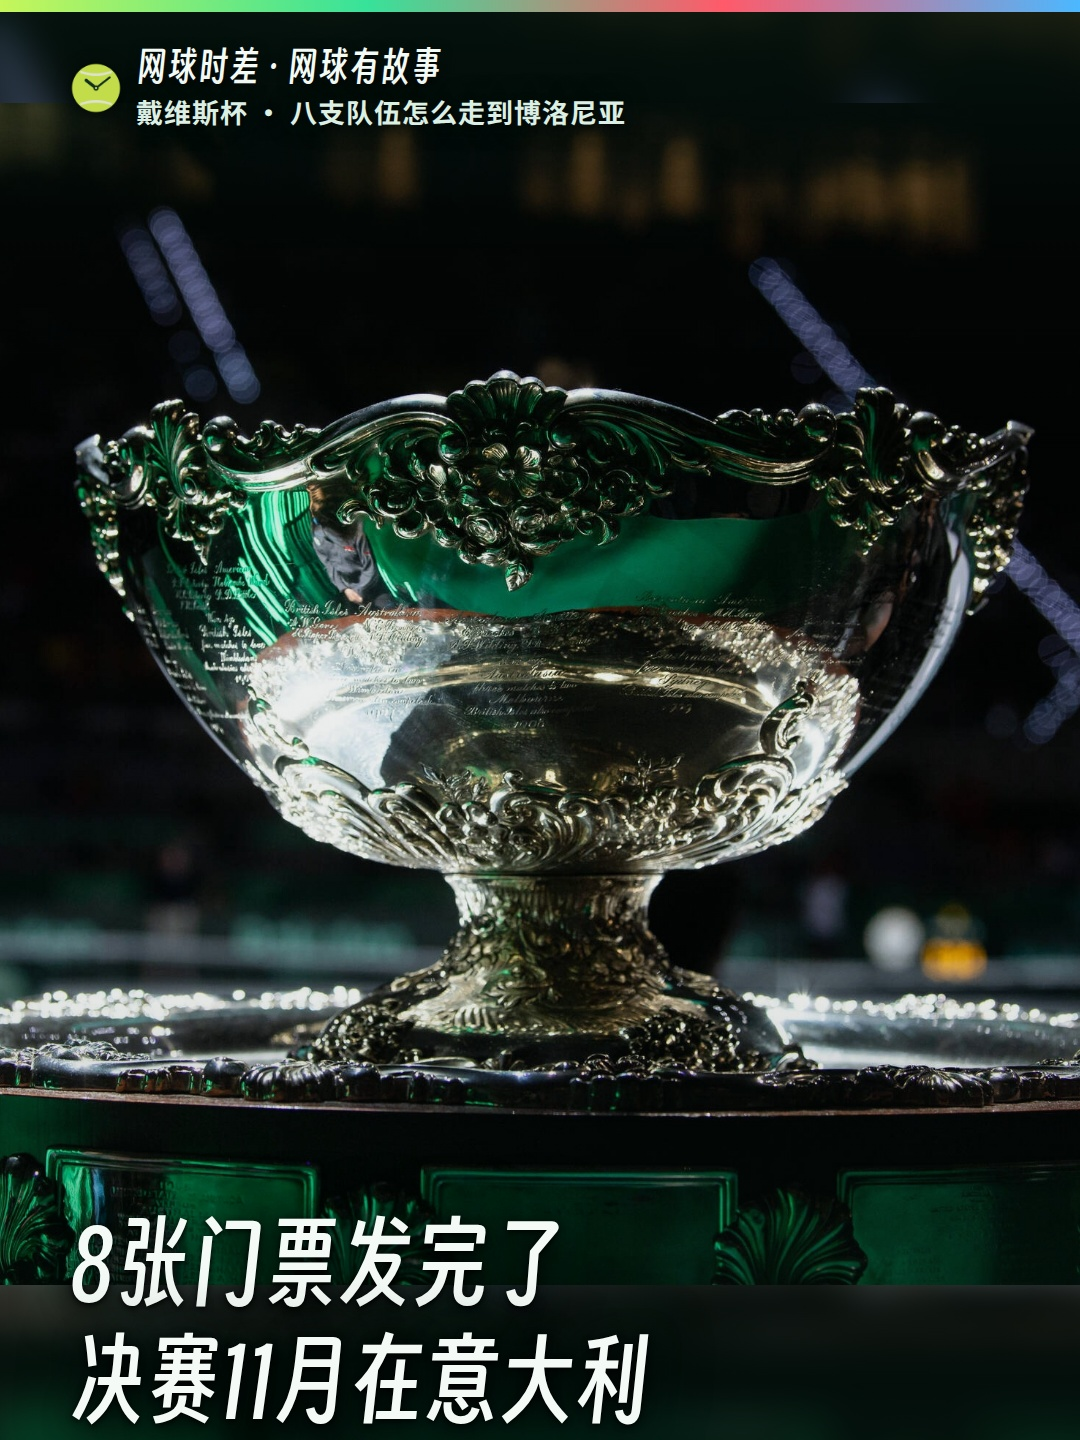
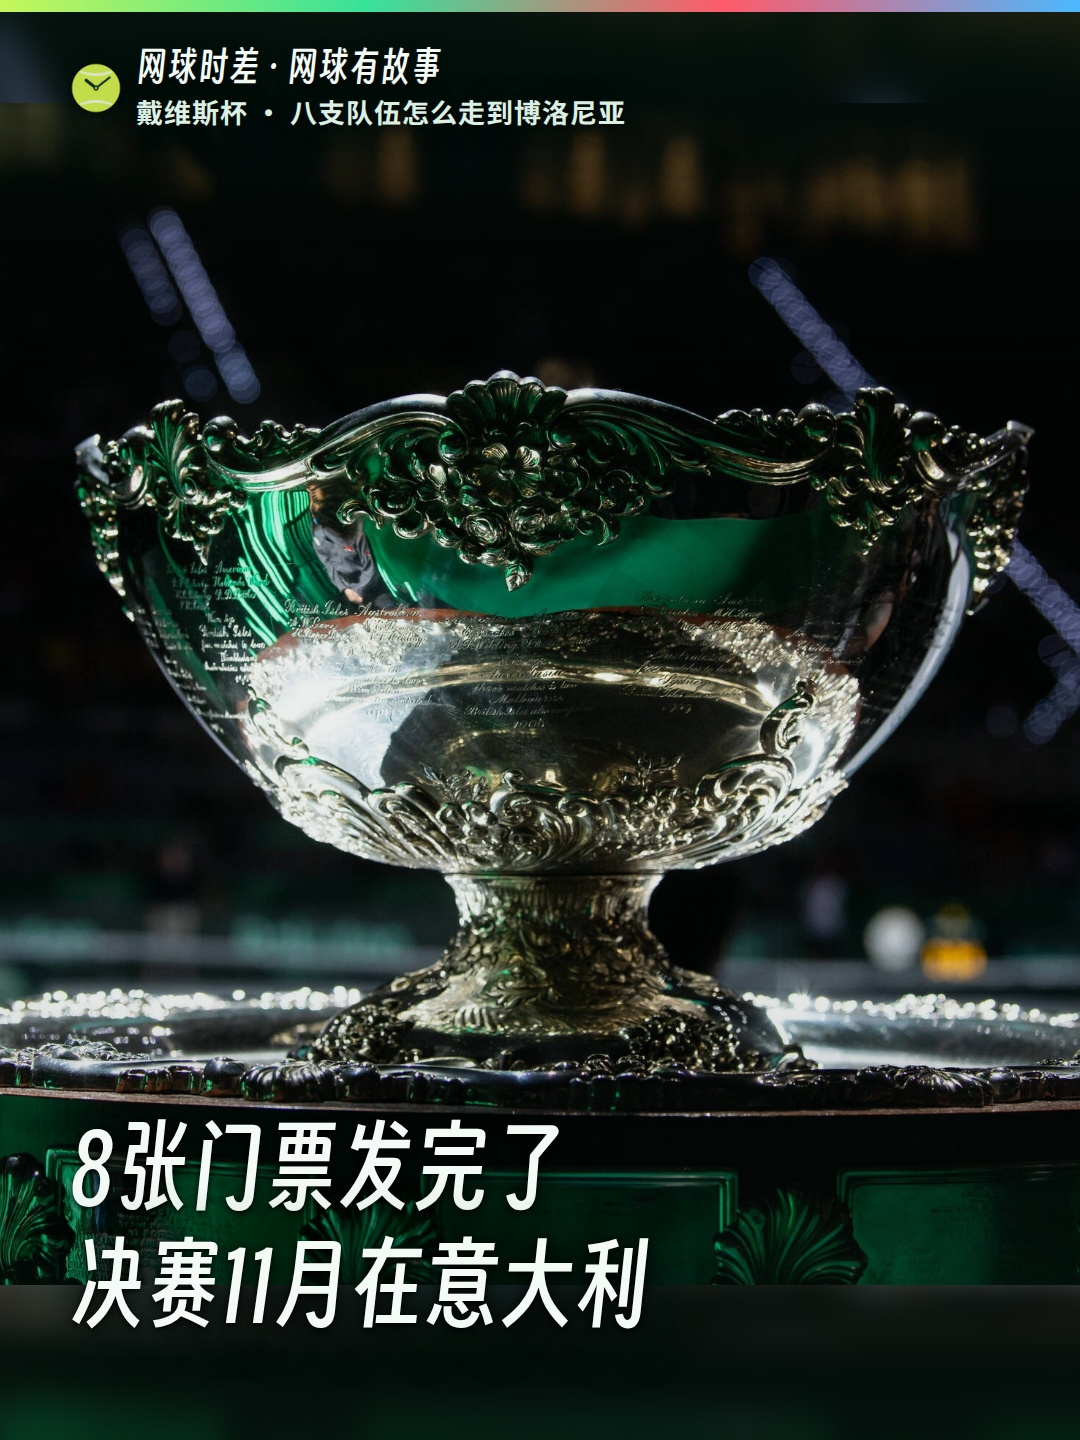
封面钩子上移 ＋ 推送正文修两处 ＋ 重渲重发 (#975)
* 信箱式封面的钩子不再贴着画布底边——往下那一头也留一口气

账号所有者：「封面钩子文案是不是要往上移一点更好一点」。是的，而根子
不在那张奖杯照上。

`fit:"width"` ＋ 没有比分板的 solo 封面走 `storycopy_top_for()`，算式是
「照片下边缘 + SOLO_PAD_HOOK_GAP」两头夹住。照片一高，`want` 根本够不着，
真正在起作用的是往下那一头的钳位——原来写的是 `1440 - hook_h`，两行钩子
的行盒正好贴着画布底边，一个像素的余地都不留。

量出来这不是个别现象：`davis-cup-road-to-bologna` 末行墨迹离画布底只有
17px，而全库 6 条 `fit:"width"` 的 solo 封面里 4 条顶在这个钳位上
（bjk-cup-story、davis-cup-china-first-world-group-1、
davis-cup-road-to-bologna、lina-cincinnati-2012）——照片一高就必然贴底，
换张照片一点用都没有。

改法：往下那一头也减掉 SOLO_PAD_HOOK_GAP。96 照旧是抄的不是拍的——上下
叠那一版（portrait_above）压到底部用的就是 `bottom:96px`，说的是同一件
事：文案块下边缘离画布底 96px。三处从此同一口气。

渲了 60/96/130 三版摆一起看（末行墨底离画布底 77/113/147px），取 96：
130 那版第一行的「8」骑到奖杯托盘那道亮边上（托盘墨止于 y=1082，那版
首行墨从 1086 起），往上让过头就开始压主体，正是这条规则要躲开的那件事。

定版的 `STORYCOPY_TOP = 790` 一个字没动，铺满那一档和赛场之上照旧走它；
改的只是信箱式那条 override 的下界。判据里原来钉旧钳位的那条断言跟着
一起改，另加一条钉「块的下边缘离画布底 ＝ 96」；反向验证过，把钳位换
回去红在自己那行（assert 1207 == ((1440 - 233) - 96)）。

已发的四条不为这个重渲。全量 3345 passed / 169 skipped。

Claude-Session: https://claude.ai/code/session_018HNYk2GrPhvhMGpGP9tyJx

* 推送正文修两处：西班牙 4-0 漏改了这一处，数字改成阿拉伯数字

① **事实**：`push.lead` 里写着「西班牙在客场圣地亚哥三比零」。9/20 那次
Spain 3-0 → 4-0 的改正落到了旁白、小红书正文、`_facts` 和 `_claims`，
**唯独漏了推送正文**——而那正是真发到微信的那段字。ITF 官方 tieCentre
`teams[].score` ＝ 0/4（R1/R2/R3/R5 COMPLETE、R4 Not Played），戴维斯杯
官方《QUALIFIERS 2ND ROUND RESULTS》制图写 `CHILE * 0-4 SPAIN`。

② **口径**：通篇汉字数字换成阿拉伯数字。`push.lead` 直接进推送 HTML
（`push_reel.build_html` 只做 `html.escape`，**不过 `arabic_numerals`**），
而它是「给人看的」那一档——2026-09-16 定的：给人看的字一律阿拉伯数字，
[…]

Changed region(s): [[0.0611, 0.7812, 0.6111, 1.0]]

diff --git a/tools/versus_poster.py b/tools/versus_poster.py
@@ -1310,6 +1310,11 @@ STORYCOPY_TOP = 790
 #:
 #: 96 是**抄的不是拍的**：上下叠那一版（`portrait_above`）压到底部时用的
 #: `bottom:96px` 就是这个数，两处保持同一口气。
+#:
+#: ⭐ **2026-09-20 起它有两个用处**：照片下边缘到钩子的那口气（本来的用处），
+#: 以及**钩子到画布底边**的那口气（`storycopy_top_for` 往下那一头的钳位）。
+#: 照片一高，前者根本够不着，钳位就成了唯一在起作用的那个数——而它原来
+#: 一口气都不留。来路和那三版实测写在 `storycopy_top_for()` 的 docstring 里。
 SOLO_PAD_HOOK_GAP = 96
 
 
@@ -1324,7 +1329,29 @@ def storycopy_top_for(cover: dict, img: tuple[int, int]) -> int:
     `照片顶边 = (1440 - H) * P`、`照片下边缘 = 顶边 + H`。
 
     ⚠ 结果要**夹住**：往上不许低于定版的 `STORYCOPY_TOP`（照片本来就矮、
-    下边缘在 790 以上时不许把钩子往回提），往下不许让两行钩子顶出画布。
+    下边缘在 790 以上时不许把钩子往回提），往下不许让两行钩子顶出画布，
+    **而且要给画布底下留同样一口气**（见下）。
+
+    ⚠⚠ **2026-09-20 账号所有者：「封面钩子文案是不是要往上移一点更好一点」。**
+    是的，而根子不在这张照片上：往下那一头原来钳在 `1440 - hook_h`，也就是
+    **两行钩子的行盒正好贴着画布底边、一个像素的余地都不留**。量了一下
+    `davis-cup-road-to-bologna`：末行墨迹**离画布底只有 17px**，读起来像要掉
+    下去。而这不是个别现象——全库 6 条 `fit:"width"` 的 solo 封面里
+    **4 条顶在这个钳位上**（`bjk-cup-story`、`davis-cup-china-first-world-group-1`、
+    `davis-cup-road-to-bologna`、`lina-cincinnati-2012`），也就是照片一高就必然
+    贴底。
+
+    所以往下那一头也减掉 `SOLO_PAD_HOOK_GAP`。**96 照旧是抄的不是拍的**——
+    上下叠那一版（`portrait_above`）压到底部时用的就是 `bottom:96px`，说的是
+    同一件事：**文案块的下边缘离画布底 96px**。三处从此是同一口气。
+
+    ⚠ 渲了 60/96/130 三版摆一起看过（末行墨底离画布底 77 / 113 / 147px）：
+    **130 那版第一行的「8」骑到了奖杯托盘那道亮边上**（托盘墨止于 y=1082，
+    130 那版首行墨从 1086 起）——往上让过头就开始压主体，正是这条规则本来要
+    躲开的那件事。取 96。
+
+    ⚠ **定版的 `STORYCOPY_TOP = 790` 一个字没动**，铺满那一档和赛场之上照旧
+    走它；这儿改的是信箱式那条 override 的**下界**。
     """
     iw, ih = img
     if not iw or not ih:
@@ -1336,7 +1363,7 @@ def storycopy_top_for(cover: dict, img: tuple[int, int]) -> int:
     want = int(round(photo_bottom + SOLO_PAD_HOOK_GAP))
     # 两行 94px 钩子的高度（和定版那笔账同一个式子）
     hook_h = round(SOLO_HOOK_MAX_LINES * HOOK_TITLE_PX * 1.24)
-    return max(STORYCOPY_TOP, min(want, 1440 - hook_h))
+    return max(STORYCOPY_TOP, min(want, 1440 - hook_h - SOLO_PAD_HOOK_GAP))
 
 
 def _scrim_css(dim_centre: bool = False) -> str:

diff --git a/tests/test_scoreboard_template.py b/tests/test_scoreboard_template.py
@@ -968,9 +968,18 @@ def test_信箱式封面的钩子让到照片下边缘之外不压主体(
                                 (4000, 1000)) == vp.STORYCOPY_TOP, (
         "照片本来就矮、下边缘在 790 以上时不许把钩子往回提")
     hook_h = round(vp.SOLO_HOOK_MAX_LINES * vp.HOOK_TITLE_PX * 1.24)
+    # ⭐ 2026-09-20 账号所有者：「封面钩子文案是不是要往上移一点更好一点」。
+    # 往下那一头原来钳在 `1440 - hook_h`——行盒贴着画布底边，一口气都不留
+    # （`davis-cup-road-to-bologna` 实测末行墨离底 **17px**）。而全库 6 条
+    # `fit:"width"` 的 solo 封面里 **4 条**顶在这个钳位上，照片一高就必然贴底。
+    # 现在底下留 `SOLO_PAD_HOOK_GAP`，和「照片下边缘到钩子」那口气同一个数。
     assert vp.storycopy_top_for({"portrait": {"zoom": 1.0, "focus_y": 1.0}},
-                                (1080, 1400)) == 1440 - hook_h, (
-        "照片很高的时候要夹住，不然两行钩子顶出画布——而顶出去是静默的")
+                                (1080, 1400)) == 1440 - hook_h - vp.SOLO_PAD_HOOK_GAP, (
+        "照片很高的时候要夹住，不然两行钩子顶出画布——而顶出去是静默的；"
+        "而且底下要留一口气，贴着画布底边读起来像要掉下去")
+    assert 1440 - (1440 - hook_h - vp.SOLO_PAD_HOOK_GAP) - hook_h == 96, (
+        "钩子块的下边缘离画布底不是 96px 了——上下叠那一版（`portrait_above`）"
+        "压到底部用的就是 `bottom:96px`，三处是同一口气")
     assert vp.storycopy_top_for({"portrait": {}}, (0, 0)) == vp.STORYCOPY_TOP, (
         "读不出图的尺寸要退回定版那个值，不许拿 0 去算")
 
